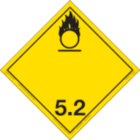
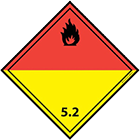
maj LP

diff --git a/js/script.js b/js/script.js
@@ -226,13 +226,13 @@ $(document).ready(function () {
 
 	function getVerdict() {
 		if (score<=2) {
-			$('.verdict-quiz').html('<img src="../img/sad.png" height="50px" width="75px"> Catastrophe ! vous devez impérativement nous <a href="contact.php" class="link-quiz">contacter</a>');
+			$('.verdict-quiz').html('<img src="./img/sad.png" height="50px" width="75px"> Catastrophe ! vous devez impérativement nous <a href="contact.php" class="link-quiz">contacter</a>');
 		}
 		else if (score<=4&&score>2) {
-			$('.verdict-quiz').html('<img src="../img/neutre.png" height="50px" width="75px"> C\'est bien mais vous avez encore quelques lacunes. N\'attendez pas pour nous <a href="contact.php" class="link-quiz">contacter</a>.');
+			$('.verdict-quiz').html('<img src="./img/neutre.png" height="50px" width="75px"> C\'est bien mais vous avez encore quelques lacunes. N\'attendez pas pour nous <a href="contact.php" class="link-quiz">contacter</a>.');
 		}
 		else{
-			$('.verdict-quiz').html('<img src="../img/happy.png" height="50px" width="75px"> Bravo ! Je ne peux que vous féliciter. Appelez nous pour en discuter.');
+			$('.verdict-quiz').html('<img src="./img/happy.png" height="50px" width="75px"> Bravo ! Je ne peux que vous féliciter. Appelez nous pour en discuter.');
 		}
 	}
 
@@ -245,7 +245,7 @@ $(document).ready(function () {
 	$('#formContact').on('submit', function (event) {
 
 		event.preventDefault();
-		$.post('http://localhost:80/LP/php/envoiMail.php',
+		$.post('http://localhost:80/LP/envoiMail.php',
 			{nom : $('#nom').val(),
 			entreprise : $('#entreprise').val(),
 			email : $('#email').val(),

diff --git a/why.php b/why.php
@@ -12,10 +12,16 @@
           La règle générale
         </h2>
         <hr class="separator" />
-        <p><em>Chapitre 1.8.3.1 de l’ADR 2019</em></p>
+        <p><em>Chapitre 1.8.3.1 de l’ADR 2021</em></p>
         <p><strong>« Chaque entreprise dont les activités comprennent l'expedition ou le transport de marchandises dangereuses par route, ou les opérations connexes d'emballage, de chargement, de remplissage ou de déchargement, désigne un ou plusieurs conseillers à la sécurité, nommés ci-après "conseillers", pour le transport de marchandises dangereuses, chargés d'aider à la prévention des risques pour les personnes, les biens ou l'environnement, inhérents à ces activités. »</strong></p>
-        <p class="mb-4 remove-mb">Cela signifie que les donneurs d’ordre sont concernés même s’ils n’interviennent pas physiquement dans l’opération de chargement des matières dangereuses.<br/></p>
-          <p class="mb-4 display-while-clicking">Ainsi, une société qui expédie des matières dangereuses par le biais d’une plateforme logistique avec un prestataire est impactée par ce chapitre de l’ADR.<br/></p>
+        <p class="mb-4 remove-mb">Cela signifie que les donneurs d’ordre sont concernés même s’ils n’interviennent pas physiquement dans l’opération de chargement des matières dangereuses. Ainsi, une société qui expédie des matières dangereuses par le biais d’une plateforme logistique avec un prestataire est impactée par ce chapitre de l’ADR.</p>
+          <p class="mb-4 display-while-clicking">La mission du Conseiller Sécurité pour le Transport des Matières Dangereuses agit sous la responsabilité du Chef d'Entreprise et a pour missions essentielles : 
+            <ul class="display-while-clicking">
+            <li>Examiner le respect des prescriptions relatives au transport de marchandises dangereuses</li>
+            <li>Conseiller l'entreprise dans les opérations concernant le transport de marchandises dangereuses</li>
+            <li>Assurer la rédaction d'un rapport annuel sur les activités de l'entreprise</li>
+          </ul>
+        </p>
           <h3 class="display-while-clicking mb-4">Les sanctions et les contrôles</h3>
           <p class="display-while-clicking">Suite à une modification de la loi 92-125 du 6 février 1992 relative à la constatation et le répression des infractions en matière de transports publics et privés (loi n°2002-3 du 3 janvier 2002), la non-désignation d'un conseiller à la sécurité est considérée comme un délit, et passible, à ce titre, d'un mois à un an d'emprisonnement et d'une amende de 1000 à 30 000 euros. Les autres infractions (absences des équipements obligatoires, formation...) sont des contraventions de 5ème catégorie (amendes de 1500 euros maximum).</p>
           <p class="display-while-clicking">Les contrôles des infractions peuvent être réalisés par les inspecteurs du ministère chargé des transports, les agents de douanes, les agents chargés de constater les infractions en matière de circulation routière, les inspecteurs du travail, etc. Les établissements peuvent être contrôlés aussi bien sur les lieux de chargement ou déchargement que sur la route.</p>

diff --git a/quiz.php b/quiz.php
@@ -78,12 +78,12 @@
               Question n°4 :
             </h2>
             <hr class="separator" />
-            <h3 class="entitled mb-3">Pour transporter des tonnelets de 5 litres de rhum alcoolisés à 55°C, je suis : </h3>
-            <p><img class="img-quiz" src="img/wrong.png" alt="faux"/><input type="radio" id="reponse11" name="question4"> Soumis à l'ADR</p>
-            <p><img class="img-quiz" src="img/wrong.png" alt="faux"/><input type="radio" id="reponse12" name="question4"> Soumis partiellement à l'ADR</p>
-            <p><img class="img-quiz" src="img/right.png" alt="bon"/><input type="radio" id="reponse13" name="question4"> Non soumis à l'ADR</p>
-            <p><img class="img-quiz" src="img/wrong.png" alt="faux"/><input type="radio" id="reponse14" name="question4"> Soumis à l'ADR à partir de 1000 litres de rhum</p>
-            <p class="reponse mt-3" id="reponse4-wrong">Référence 3.3.1 sur la disposition spéciale 145</p>
+            <h3 class="entitled mb-3">Selon l'ADR, quel(s) équipement(s) de protection générale et individuelle, pour transporter de la peinture, ne sont PAS obligatoires : </h3>
+            <p><img class="img-quiz" src="img/wrong.png" alt="faux"/><input type="radio" id="reponse11" name="question4"> Une cale de roue par véhicule</p>
+            <p><img class="img-quiz" src="img/wrong.png" alt="faux"/><input type="radio" id="reponse12" name="question4"> Deux signaux d'avertissements autoporteurs</p>
+            <p><img class="img-quiz" src="img/right.png" alt="bon"/><input type="radio" id="reponse13" name="question4"> Un masque d'évacuation d'urgence pour chaque membre de l'équipage</p>
+            <p><img class="img-quiz" src="img/wrong.png" alt="faux"/><input type="radio" id="reponse14" name="question4"> Du liquide de rinçage pour les yeux</p>
+            <p class="reponse mt-3" id="reponse4-wrong">Référence 5.4.3</p>
           </div>  
         </div>
       </div>

diff --git a/footer.php b/footer.php
@@ -1,7 +1,7 @@
    </main>
    <footer class="text-faded text-center py-5">
       <div class="container">
-        <p class="m-0 small">Copyright &copy; LP 2018</p>
+        <p class="m-0 small">Copyright &copy; LP 2022</p>
       </div>
     </footer>
 
@@ -9,7 +9,7 @@
     <script src="https://ajax.googleapis.com/ajax/libs/jquery/3.3.1/jquery.min.js"></script>
     <script src="https://stackpath.bootstrapcdn.com/bootstrap/4.3.1/js/bootstrap.min.js" integrity="sha384-JjSmVgyd0p3pXB1rRibZUAYoIIy6OrQ6VrjIEaFf/nJGzIxFDsf4x0xIM+B07jRM" crossorigin="anonymous"></script>
     <script src="https://stackpath.bootstrapcdn.com/bootstrap/4.3.1/js/bootstrap.bundle.min.js" integrity="sha384-xrRywqdh3PHs8keKZN+8zzc5TX0GRTLCcmivcbNJWm2rs5C8PRhcEn3czEjhAO9o" crossorigin="anonymous"></script>
-    <script src="js/script.js"></script>
+    <script src="js/script.js" defer></script>
 
   </body>
 
